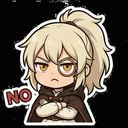
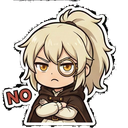
fix: remove emote bg and add emote CI

diff --git a/scripts/build_emotes.py b/scripts/build_emotes.py
@@ -1,0 +1,142 @@
+#!/usr/bin/env python3
+import json
+import os
+from collections import deque
+from glob import glob
+
+from PIL import Image
+
+
+def is_near_black(pixel, threshold):
+    r, g, b, a = pixel
+    if a == 0:
+        return False
+    return r <= threshold and g <= threshold and b <= threshold
+
+
+def remove_black_background(img, threshold):
+    width, height = img.size
+    pixels = img.load()
+    visited = [False] * (width * height)
+    queue = deque()
+
+    def try_push(x, y):
+        idx = y * width + x
+        if visited[idx]:
+            return
+        if not is_near_black(pixels[x, y], threshold):
+            return
+        visited[idx] = True
+        queue.append((x, y))
+
+    # Flood fill from edges to avoid wiping dark details inside the emote.
+    for x in range(width):
+        try_push(x, 0)
+        if height > 1:
+            try_push(x, height - 1)
+    for y in range(height):
+        try_push(0, y)
+        if width > 1:
+            try_push(width - 1, y)
+
+    while queue:
+        x, y = queue.popleft()
+        if x > 0:
+            try_push(x - 1, y)
+        if x < width - 1:
+            try_push(x + 1, y)
+        if y > 0:
+            try_push(x, y - 1)
+        if y < height - 1:
+            try_push(x, y + 1)
+
+    for y in range(height):
+        row_offset = y * width
+        for x in range(width):
+            if visited[row_offset + x]:
+                r, g, b, _ = pixels[x, y]
+                pixels[x, y] = (r, g, b, 0)
+
+    return img
+
+
+def load_configs(config_dir):
+    configs = []
+    for path in sorted(glob(os.path.join(config_dir, "*.json"))):
+        with open(path, "r", encoding="utf-8") as f:
+            configs.append(json.load(f))
+    return configs
+
+
+def process_pack(pack):
+    pack_id = pack["id"]
+    name = pack["name"]
+    source_image = pack["source_image"]
+    grid = pack["grid"]
+    rows = int(grid["rows"])
+    cols = int(grid["cols"])
+    output_dir = pack.get("output_dir") or os.path.join("server", "storage", "emotes", pack_id)
+    size = int(pack.get("size", 128))
+    threshold = int(pack.get("background_threshold", 5))
+
+    sheet = Image.open(source_image).convert("RGBA")
+    tile_width = sheet.width // cols
+    tile_height = sheet.height // rows
+
+    os.makedirs(output_dir, exist_ok=True)
+
+    items_out = []
+    items = pack.get("items", [])
+    for idx, item in enumerate(items):
+        item_id = item["id"]
+        index = int(item.get("index", idx + 1))
+        row = (index - 1) // cols
+        col = (index - 1) % cols
+        left = col * tile_width
+        upper = row * tile_height
+        right = left + tile_width
+        lower = upper + tile_height
+
+        tile = sheet.crop((left, upper, right, lower))
+        tile = remove_black_background(tile, threshold)
+        tile = tile.resize((size, size), Image.LANCZOS)
+
+        output_path = os.path.join(output_dir, f"{item_id}.png")
+        tile.save(output_path, "PNG", optimize=True)
+
+        items_out.append({
+            "id": item_id,
+            "name": item["name"],
+            "text": item.get("text", ""),
+            "file": f"/emotes/{pack_id}/{item_id}.png",
+        })
+
+    icon_id = pack.get("icon_id") or (items[0]["id"] if items else "")
+    pack_out = {
+        "id": pack_id,
+        "name": name,
+        "icon": f"/emotes/{pack_id}/{icon_id}.png" if icon_id else "",
+        "items": items_out,
+    }
+    return pack_out
+
+
+def main():
+    config_dir = os.path.join("server", "storage", "emotes", "packs")
+    manifest_path = os.path.join("server", "storage", "emotes", "manifest.json")
+
+    packs = load_configs(config_dir)
+    if not packs:
+        raise SystemExit("No emote pack configs found.")
+
+    manifest = {"packs": []}
+    for pack in packs:
+        manifest["packs"].append(process_pack(pack))
+
+    with open(manifest_path, "w", encoding="utf-8") as f:
+        json.dump(manifest, f, ensure_ascii=False, indent=2)
+        f.write("\n")
+
+
+if __name__ == "__main__":
+    main()
